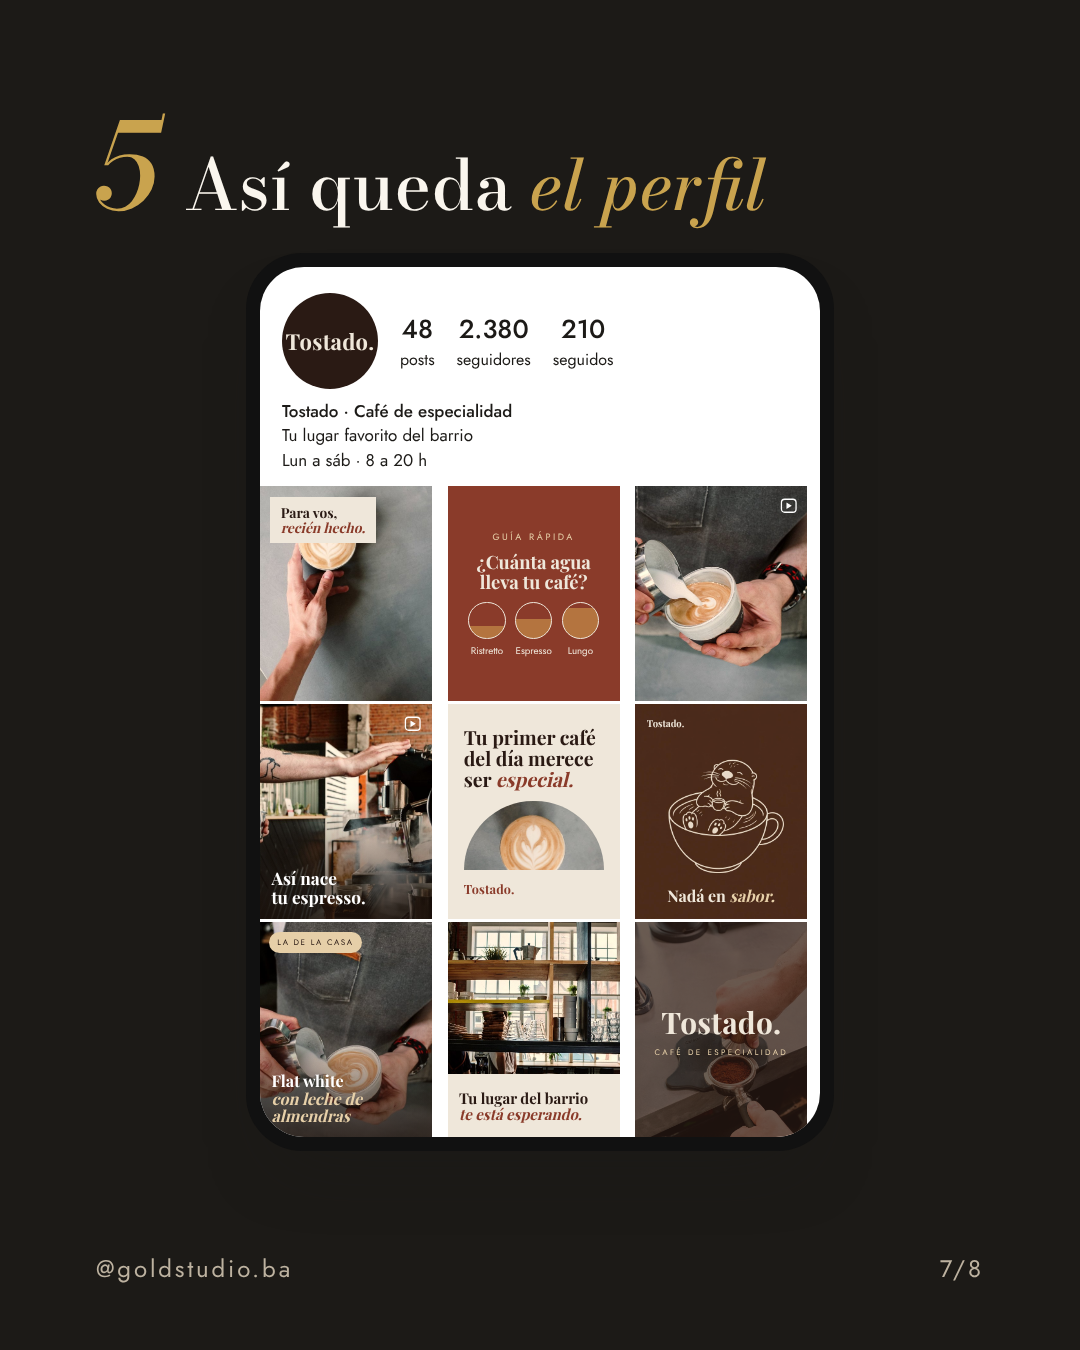
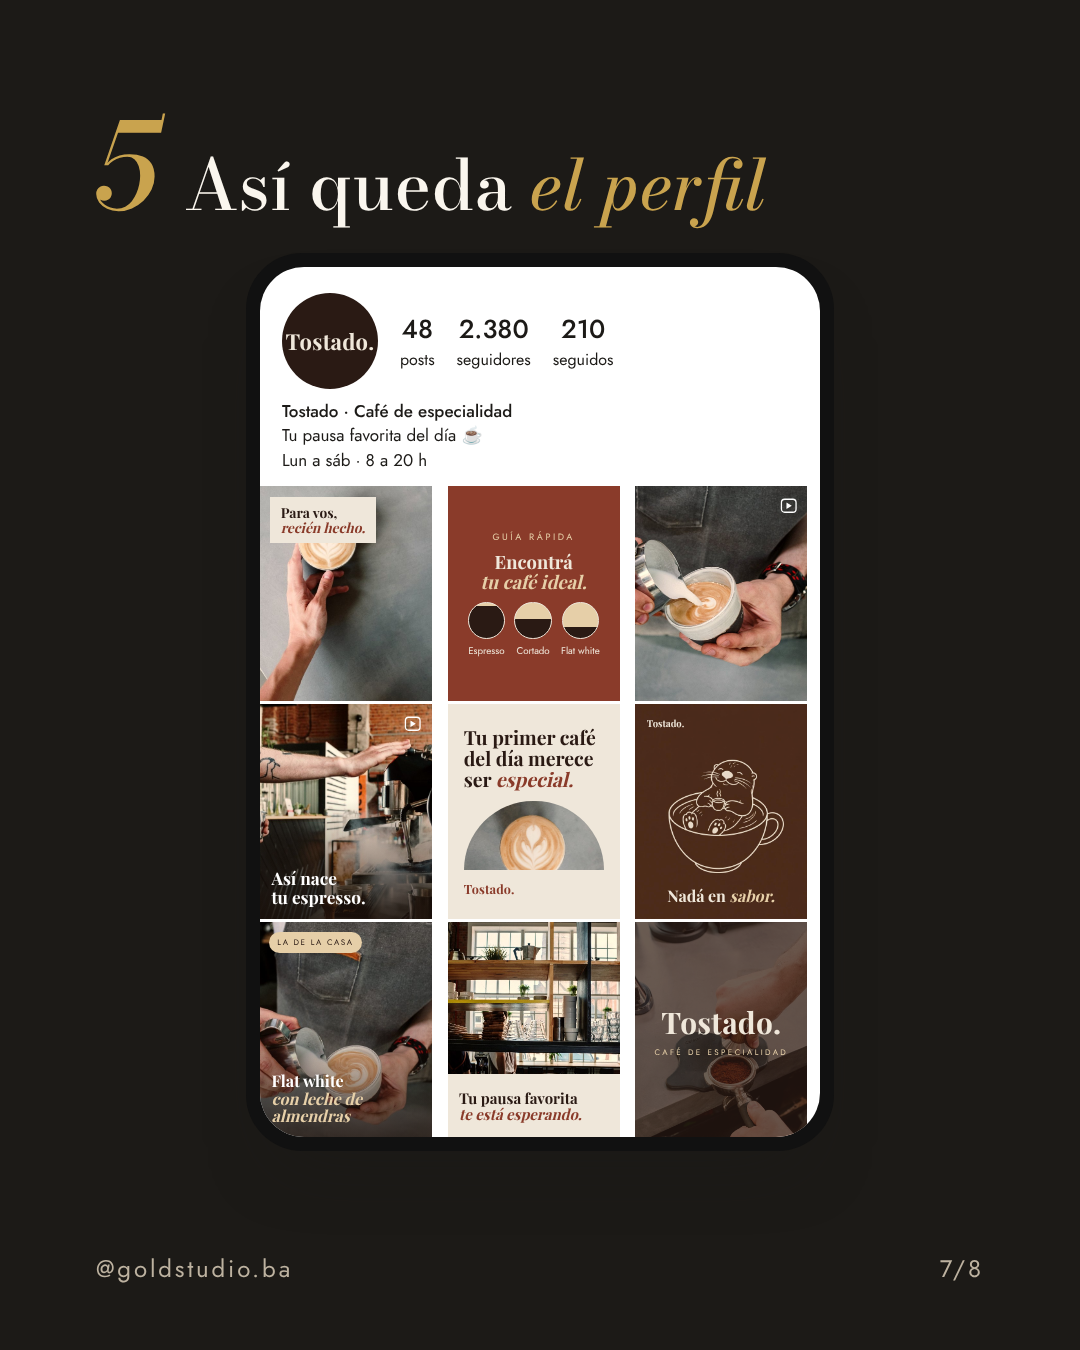
Carrusel de café: guía de cafés con leche y textos sin 'de barrio'
Claude-Session: https://claude.ai/code/session_01MqSuY797qLSbTTpQyvUeTv

Changed region(s): [[0.4278, 0.4044, 0.55, 0.4978], [0.275, 0.3111, 0.4583, 0.3422], [0.4583, 0.8089, 0.55, 0.84]]

diff --git a/contenido/scripts/carrusel_feed_cafe.py b/contenido/scripts/carrusel_feed_cafe.py
@@ -56,9 +56,9 @@ def p_frase():
             f'<div class="t" style="font-size:34px;color:{ESP}">Tu primer café del día merece ser <i style="color:{BOR}">especial.</i></div>'
             f'<div class="ph" style="height:120px;border-radius:999px 999px 0 0;{ph("latte_arriba", "center 45%")}"></div>{tostado(BOR, 22)}</div>')
 def p_guia():
-    cups = ''.join(f'<div style="display:flex;flex-direction:column;align-items:center;gap:8px;color:{CRE};font-size:17px"><div style="width:62px;height:62px;border-radius:50%;border:3px solid {CRE};background:linear-gradient({BOR} {100-p}%,{CAR} {100-p}%)"></div>{n}</div>' for n, p in [('Ristretto', 35), ('Espresso', 55), ('Lungo', 85)])
+    cups = ''.join(f'<div style="display:flex;flex-direction:column;align-items:center;gap:8px;color:{CRE};font-size:17px"><div style="width:62px;height:62px;border-radius:50%;border:3px solid {CRE};background:linear-gradient({MAN} {p}%,{ESP} {p}%)"></div>{n}</div>' for n, p in [('Espresso', 10), ('Cortado', 45), ('Flat white', 70)])
     return (f'<div class="post" style="background:{BOR};display:flex;flex-direction:column;align-items:center;justify-content:center;gap:16px">'
-            f'<div style="color:{MAN};font-size:16px;letter-spacing:.28em">GUÍA RÁPIDA</div><div class="t" style="color:{CRE};font-size:32px;text-align:center">¿Cuánta agua<br>lleva tu café?</div>'
+            f'<div style="color:{MAN};font-size:16px;letter-spacing:.28em">GUÍA RÁPIDA</div><div class="t" style="color:{CRE};font-size:32px;text-align:center">Encontrá<br><i style="color:{MAN}">tu café ideal.</i></div>'
             f'<div style="display:flex;gap:16px">{cups}</div></div>')
 def p_reco():
     return (f'<div class="post ph" style="{ph("latte_arte", "center 60%")}"><div class="shade"></div>'
@@ -66,7 +66,7 @@ def p_reco():
             f'<div class="t" style="position:absolute;left:20px;right:20px;bottom:22px;color:#fff;font-size:28px">Flat white<br><i style="color:{MAN}">con leche de almendras</i></div></div>')
 def p_lugar():
     return (f'<div class="post ph" style="{ph("local", "center 40%")}"><div style="position:absolute;left:0;right:0;bottom:0;height:110px;background:{CRE};display:flex;flex-direction:column;justify-content:center;padding:0 20px">'
-            f'<div class="t" style="font-size:26px;color:{ESP}">Tu lugar del barrio<br><i style="color:{BOR}">te está esperando.</i></div></div></div>')
+            f'<div class="t" style="font-size:26px;color:{ESP}">Tu pausa favorita<br><i style="color:{BOR}">te está esperando.</i></div></div></div>')
 def p_marca():
     return (f'<div class="post ph" style="{ph("tamper")}"><div style="position:absolute;inset:0;background:rgba(42,26,20,.7)"></div>'
             f'<div style="position:absolute;inset:0;display:flex;flex-direction:column;align-items:center;justify-content:center;gap:8px">{tostado(CRE, 52)}'
@@ -143,7 +143,7 @@ s_big = f'<div class="eb" style="text-align:center">De cerca</div>{big}<p class=
 prof = ('<div class="shadow" style="width:560px;border-radius:56px;background:#111;padding:14px;align-self:center"><div style="border-radius:44px;overflow:hidden;background:#fff;color:#1C1A17">'
         f'<div style="padding:26px 22px 10px;display:flex;gap:22px;align-items:center"><div style="width:96px;height:96px;border-radius:50%;background:{ESP};display:grid;place-items:center;flex:none">{tostado(CRE, 22)}</div>'
         '<div style="display:flex;gap:22px;font-size:16px;text-align:center">' + ''.join(f'<div><b style="display:block;font-size:26px;font-weight:500">{a}</b>{b}</div>' for a, b in [('48', 'posts'), ('2.380', 'seguidores'), ('210', 'seguidos')]) + '</div></div>'
-        '<div style="padding:0 22px 14px;font-size:17px;line-height:1.45"><b style="font-weight:500">Tostado · Café de especialidad</b><br>Tu lugar favorito del barrio<br>Lun a sáb · 8 a 20 h</div>'
+        '<div style="padding:0 22px 14px;font-size:17px;line-height:1.45"><b style="font-weight:500">Tostado · Café de especialidad</b><br>Tu pausa favorita del día ☕<br>Lun a sáb · 8 a 20 h</div>'
         '<div style="display:grid;grid-template-columns:repeat(3,1fr);gap:3px">' + ''.join(f'<div style="zoom:.5733">{p}</div>' for p in FEED9) + '</div></div></div>')
 s_prof = f'{step(5, "Así queda <em>el perfil</em>")}{prof}'
 
